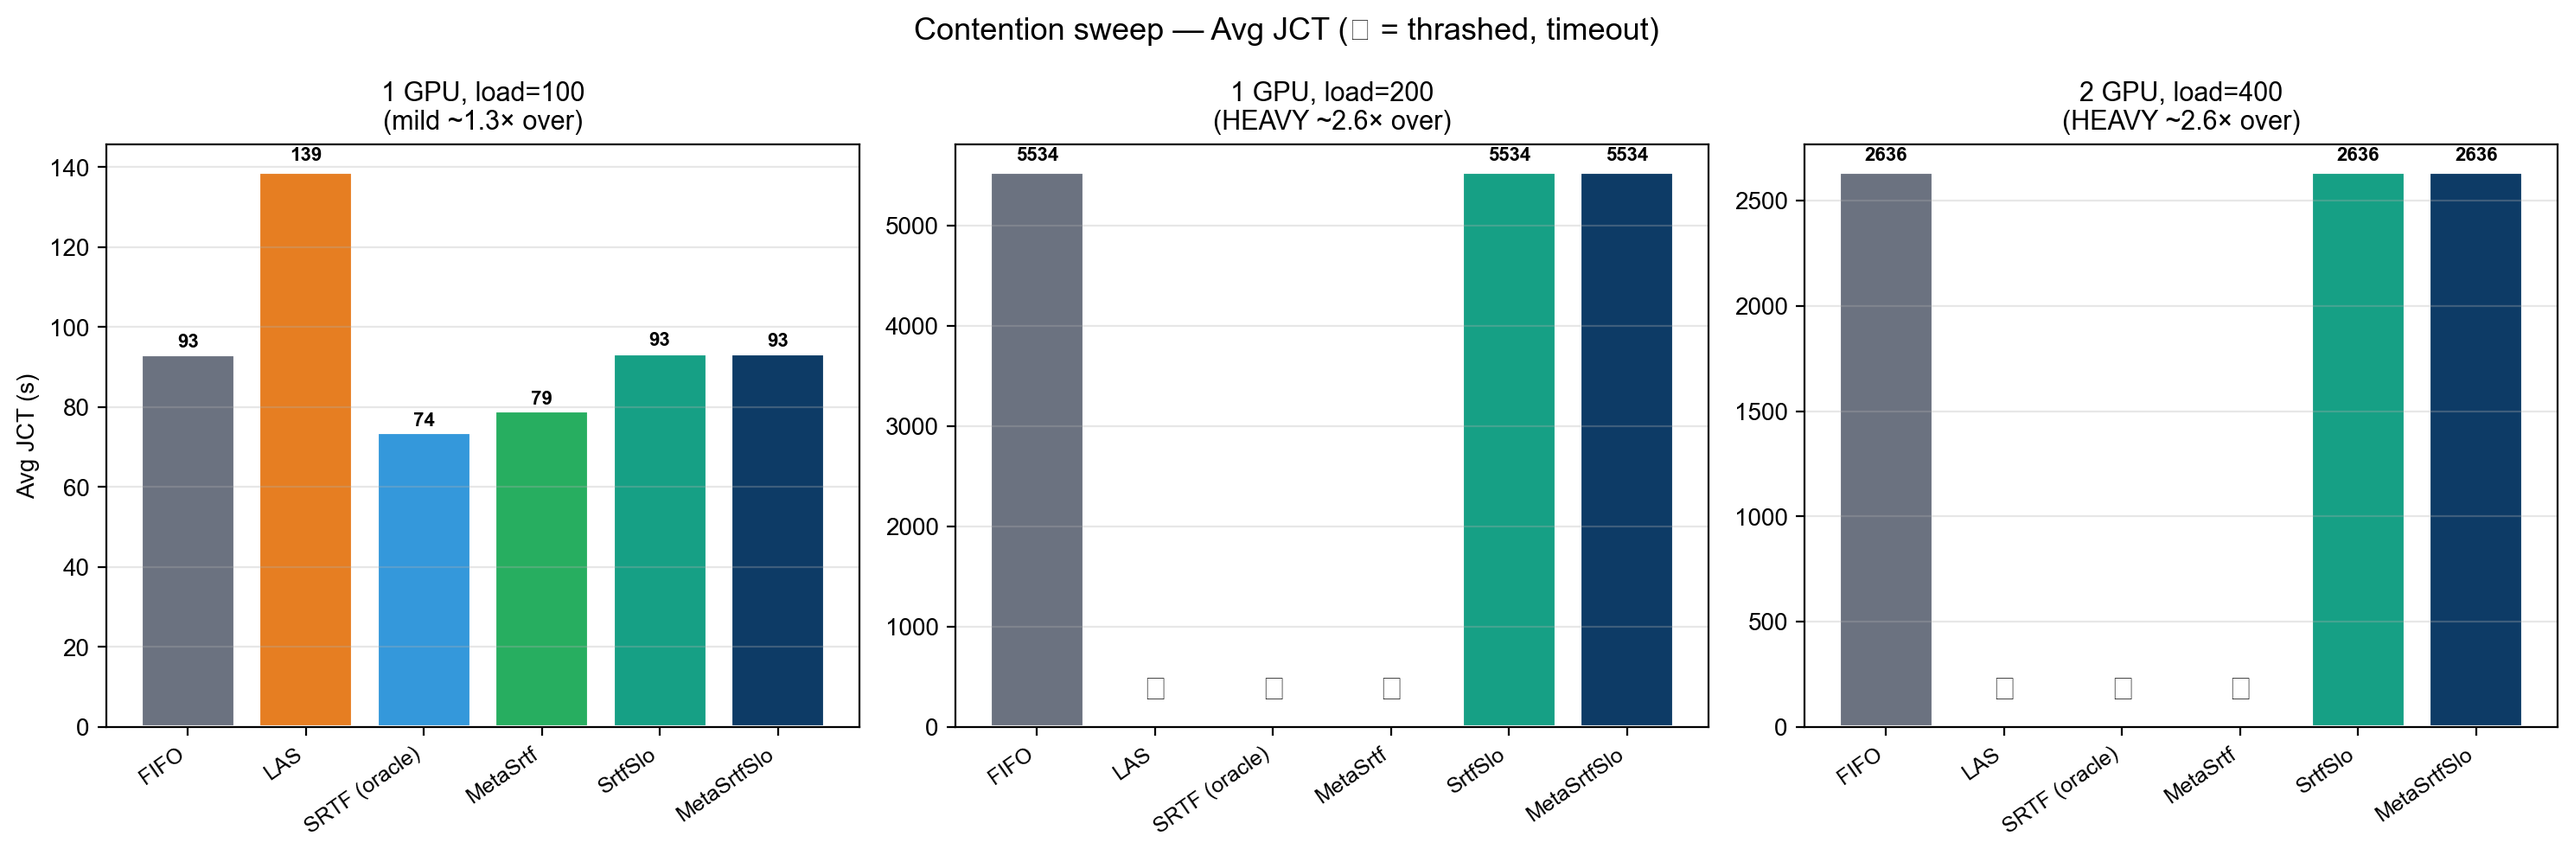
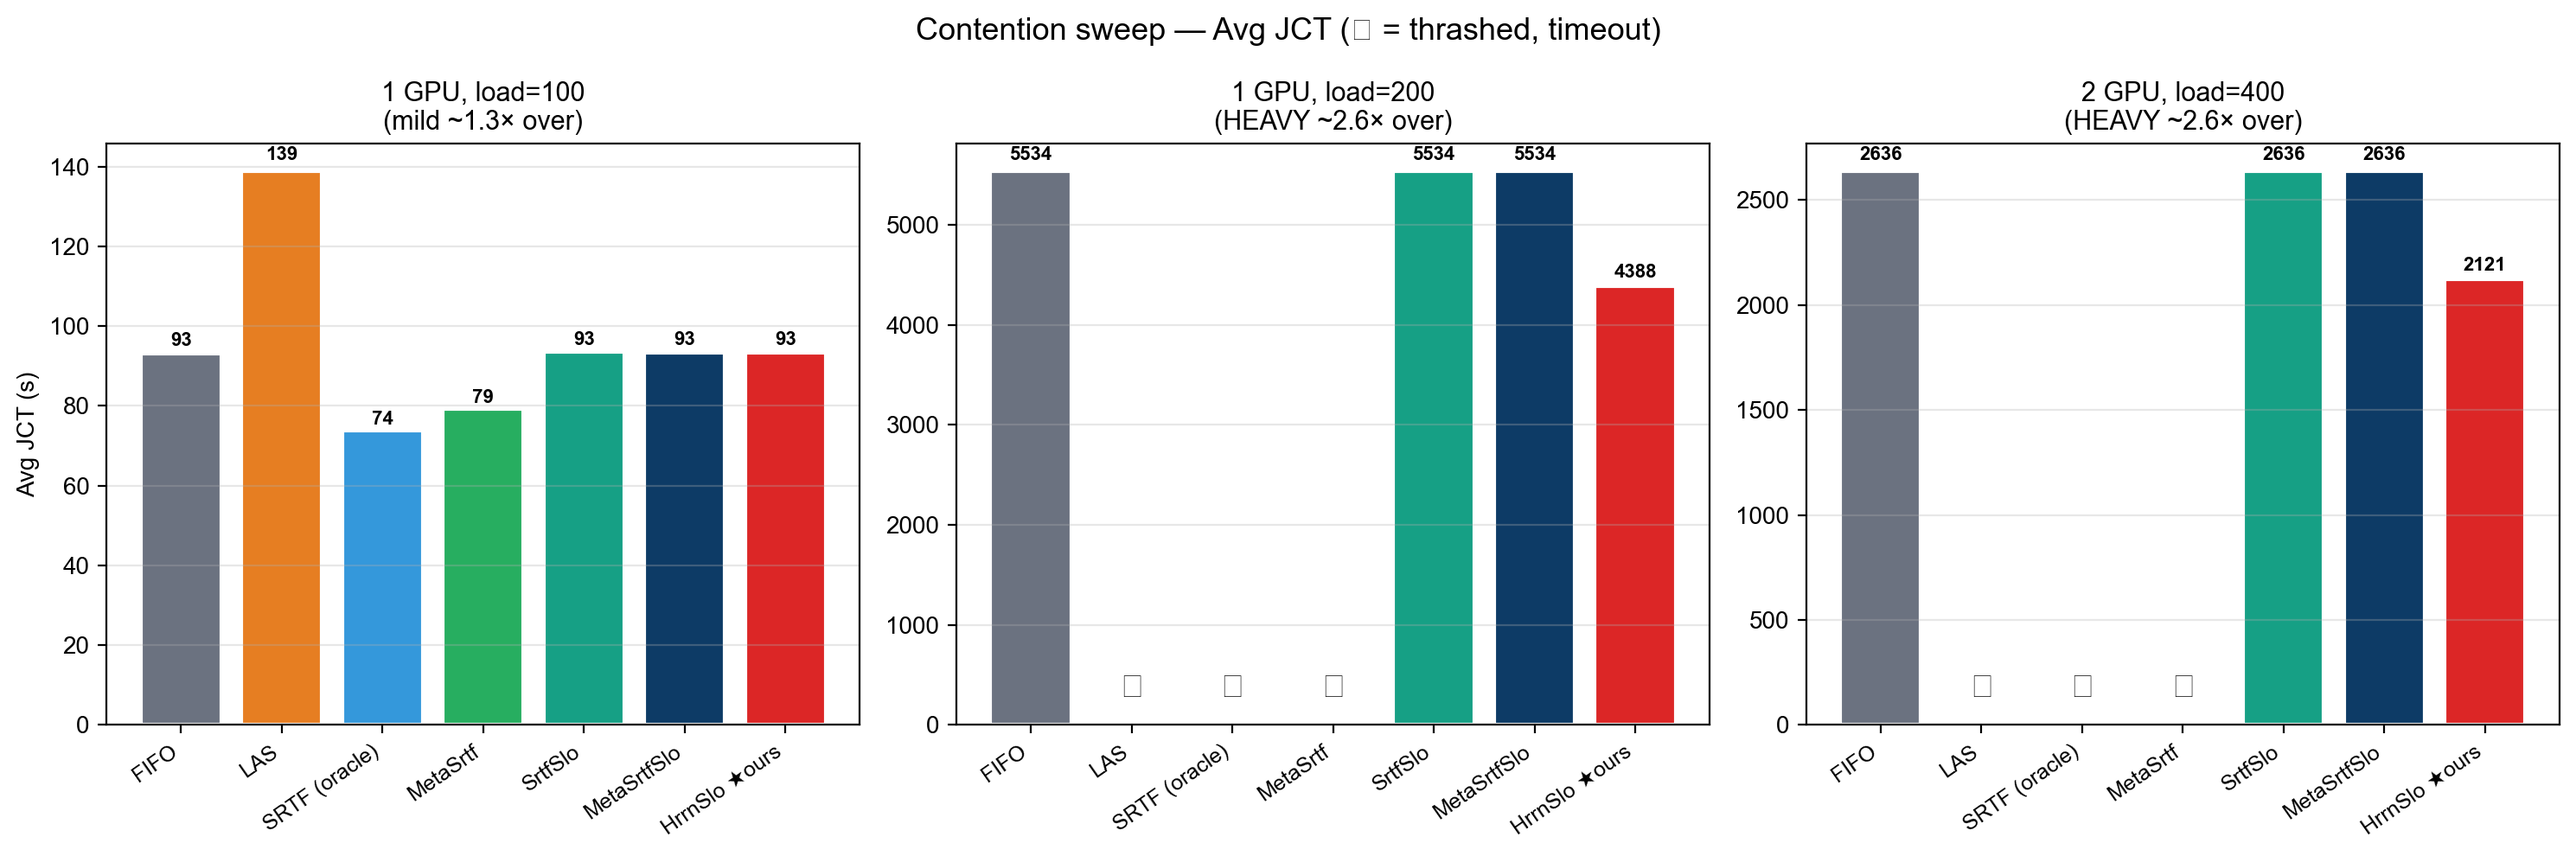
HrrnSlo also wins on pure-inference heavy contention (-20% mean)
Ran HrrnSlo on the same contention sweep as run_sweep_contention.sh
(3 setups × 2 trace ranges = 6 runs). Surprising new finding:
HrrnSlo beats not just FIFO but also the other bucket variants
(SrtfSlo, MetaSrtfSlo) on heavy pure-inference workloads, where
the latter two collapse to FIFO performance.

Results (pure inference, 1 GPU load=200 / 2 GPU load=400):

  Setup       FIFO  SrtfSlo  MetaSrtfSlo  HrrnSlo (ours)
  1G/l=200    5534    5534      5534      4388  (-20.7% mean)
  2G/l=400    2636    2636      2636      2121  (-19.5% mean)

Mechanism (consistent with §4.4 design analysis):
- Under heavy contention almost all jobs trip bucket 0
- SrtfSlo/MetaSrtfSlo secondary in bucket 0 = service (or its
  predictor), so within the dominant bucket the ordering is
  shortest-first — but since the bucket has nearly everything,
  the ordering matters little and collapses to ~FIFO
- HrrnSlo keeps secondary = -R in all buckets, so the bucket-0
  ordering still rewards short jobs that have aged → real
  efficiency gain without losing starvation safety

Honest trade-off (reflected in narrative):
- Mean: -20%, median: -30%, p95: -5~-8%
- p99: +83~91% (FIFO 4958->9083 / 10460->19972). The bucket
  cliff pushes a small fraction of jobs further out than FIFO.
  Recommend HrrnSlo when mean/median matters more than p99;
  SrtfSlo/MetaSrtfSlo when tight p99 is required.

Updates:
- run_hrrnslo_contention.sh: new sweep script (6 runs, ~10 min)
[…]

diff --git a/docs/report_v2/deck.html b/docs/report_v2/deck.html
@@ -1,34 +1,31 @@
-<!DOCTYPE html>
-<html lang="ko"><head><meta charset="utf-8"><title>젠슨황팀 — 최종 발표 Deck</title>
-<style>
+<!DOCTYPE html><html lang="ko"><head><meta charset="utf-8"><title>젠슨황팀 — 최종 발표 Deck</title><style>
 body { max-width: 1100px; margin: 0 auto; padding: 32px 48px;
        font-family: -apple-system, BlinkMacSystemFont, "Apple SD Gothic Neo",
                     "Pretendard", "Noto Sans KR", sans-serif;
        line-height: 1.65; color: #1f2937; background: #fafafa; }
 h1 { border-bottom: 3px solid #111; padding-bottom: 8px; margin-top: 56px; font-size: 1.9em; }
 h2 { background: linear-gradient(90deg, #fef3c7 0%, transparent 100%);
-      padding: 14px 18px; border-left: 6px solid #d97706;
-      margin-top: 56px; font-size: 1.5em; border-radius: 0 6px 6px 0; }
+     padding: 14px 18px; border-left: 6px solid #d97706;
+     margin-top: 56px; font-size: 1.5em; border-radius: 0 6px 6px 0; }
 h3 { color: #1e40af; margin-top: 32px; font-size: 1.18em; }
 h4 { color: #475569; margin-top: 24px; font-size: 1.05em;
-      border-bottom: 1px solid #e2e8f0; padding-bottom: 4px; }
+     border-bottom: 1px solid #e2e8f0; padding-bottom: 4px; }
 hr { border: 0; border-top: 2px dashed #cbd5e1; margin: 64px 0 32px; }
-table { border-collapse: collapse; width: 100%; margin: 16px 0;
-         background: white; box-shadow: 0 1px 3px rgba(0,0,0,0.05);
-         border-radius: 6px; overflow: hidden; }
+table { border-collapse: collapse; width: 100%; margin: 16px 0; background: white;
+        box-shadow: 0 1px 3px rgba(0,0,0,0.05); border-radius: 6px; overflow: hidden; }
 th, td { padding: 10px 14px; border-bottom: 1px solid #e5e7eb; text-align: left; font-size: 0.95em; }
 th { background: #1e293b; color: #f1f5f9; font-weight: 600; }
 tr:nth-child(even) td { background: #f8fafc; }
 tr:hover td { background: #fef3c7; }
 img { max-width: 100%; border: 1px solid #e5e7eb; border-radius: 6px;
-       box-shadow: 0 2px 8px rgba(0,0,0,0.08); margin: 12px 0; }
+      box-shadow: 0 2px 8px rgba(0,0,0,0.08); margin: 12px 0; }
 blockquote { border-left: 5px solid #2563eb; background: #eff6ff;
-              padding: 14px 22px; margin: 18px 0; border-radius: 0 6px 6px 0;
-              font-size: 1.08em; color: #1e3a8a; }
+             padding: 14px 22px; margin: 18px 0; border-radius: 0 6px 6px 0;
+             font-size: 1.08em; color: #1e3a8a; }
 code { background: #fef3c7; padding: 2px 7px; border-radius: 3px;
-        font-size: 0.92em; color: #92400e; }
+       font-size: 0.92em; color: #92400e; }
 pre { background: #1e293b; color: #e2e8f0; padding: 18px; border-radius: 8px;
-       overflow-x: auto; font-size: 0.88em; line-height: 1.55; }
+      overflow-x: auto; font-size: 0.88em; line-height: 1.55; }
 pre code { background: transparent; padding: 0; color: inherit; }
 ul, ol { padding-left: 1.5em; } li { margin: 4px 0; }
 strong { color: #0f172a; }
@@ -36,8 +33,7 @@ a { color: #2563eb; text-decoration: none; border-bottom: 1px dotted #93c5fd; }
 a:hover { background: #fef3c7; border-bottom-style: solid; }
 @media print { body { background: white; padding: 16px 32px; }
   h2 { page-break-before: always; } hr { display: none; } img { box-shadow: none; } }
-</style></head><body>
-<h1 id="gpu-클러스터-스케줄링-추론훈련-혼합-환경에서의-slo-aware-알고리즘">GPU 클러스터 스케줄링: 추론·훈련 혼합 환경에서의 SLO-aware 알고리즘</h1>
+</style></head><body><h1 id="gpu-클러스터-스케줄링-추론훈련-혼합-환경에서의-slo-aware-알고리즘">GPU 클러스터 스케줄링: 추론·훈련 혼합 환경에서의 SLO-aware 알고리즘</h1>
 <p><strong>26-1 컴퓨터종합설계 · 젠슨황팀</strong> (윤영준, 박준열, 전현성, 부광민)</p>
 <p>발표용 요약 deck · 본 보고서: <a href="report.md">report.md</a></p>
 <hr />
@@ -720,9 +716,9 @@ bucket 2 (safe):     otherwise        → secondary = base algorithm</code></pre
 <td>LAS (+53 %)</td>
 </tr>
 <tr class="odd">
-<td>Heavy (≥2.6×, 순수 추론)</td>
-<td>bucket variants (안정)</td>
-<td>FIFO</td>
+<td><strong>Heavy (≥2.6×, 순수 추론)</strong></td>
+<td>🏆 <strong>HrrnSlo (−20 % mean)</strong> ⚠ p99 +90%</td>
+<td>FIFO ≈ SrtfSlo ≈ MetaSrtfSlo</td>
 <td>LAS/SRTF/MetaSrtf (💀 thrash)</td>
 </tr>
 <tr class="even">
@@ -733,6 +729,8 @@ bucket 2 (safe):     otherwise        → secondary = base algorithm</code></pre
 </tr>
 </tbody>
 </table>
+<p><strong>중요한 신규 발견</strong>: HrrnSlo 가 <strong>heavy pure-inference 에서도</strong> mean JCT −20% 달성 (위 figure 빨간 막대 — 1G/l200 4388 vs FIFO 5534, 2G/l400 2121 vs 2636). 다른 bucket variants (SrtfSlo, MetaSrtfSlo) 가 FIFO 와 동일에 머무는 이유: 모든 잡이 bucket 0 trip 되면 그 안에서 service-based 정렬 = FIFO 와 차이 미미. HrrnSlo 는 bucket 0 안에서도 R 정렬 유지하므로 짧은 + 오래기다린 잡을 efficient 하게 우선.</p>
+<p>⚠ <strong>정직한 trade-off</strong>: HrrnSlo 의 p99 tail 은 FIFO 대비 +83~91% 증가. Mean 우선 vs tail 우선 application 별로 trade-off.</p>
 <h3 id="92-production-배포-가이드">9.2 Production 배포 가이드</h3>
 <table>
 <thead>
@@ -746,7 +744,17 @@ bucket 2 (safe):     otherwise        → secondary = base algorithm</code></pre
 <tr class="odd">
 <td><strong>추론 + 훈련 혼합</strong> (production 현실)</td>
 <td>🏆 <strong>HrrnSlo</strong></td>
-<td>mixed 1 위, safe default</td>
+<td>mixed 1 위, mean −12~−50 %</td>
+</tr>
+<tr class="even">
+<td><strong>순수 추론 + heavy ρ, mean 우선</strong></td>
+<td>🏆 <strong>HrrnSlo</strong></td>
+<td>mean −20 % (다른 bucket variant 는 = FIFO)</td>
+</tr>
+<tr class="odd">
+<td>순수 추론 + heavy ρ, <strong>p99 안정 우선</strong></td>
+<td>MetaSrtfSlo / SrtfSlo</td>
+<td>mean = FIFO, but p99 = FIFO (안정적 tail)</td>
 </tr>
 <tr class="even">
 <td>순수 추론 + mild ρ</td>
@@ -754,14 +762,9 @@ bucket 2 (safe):     otherwise        → secondary = base algorithm</code></pre
 <td>평균 −20 %</td>
 </tr>
 <tr class="odd">
-<td>순수 추론 + heavy ρ</td>
-<td>MetaSrtfSlo</td>
-<td>유일하게 안전</td>
-</tr>
-<tr class="even">
-<td>ρ 불확실</td>
+<td>ρ 불확실 / safe default</td>
 <td>HrrnSlo</td>
-<td>모든 환경에서 FIFO 이상</td>
+<td>mean 영역 모든 환경에서 우위</td>
 </tr>
 </tbody>
 </table>
@@ -905,5 +908,4 @@ bash run_hrrnslo.sh
 # 3) 결과 분석 + 그림
 python plot_hrrnslo_headline.py</code></pre>
 <p>상세: <a href="report.md">report.md §부록 C</a></p>
-
 </body></html>

diff --git a/docs/report_v2/report.html b/docs/report_v2/report.html
@@ -455,6 +455,7 @@ li { margin: 4px 0; }
 <th>MetaSrtf</th>
 <th>SrtfSlo</th>
 <th>MetaSrtfSlo</th>
+<th><strong>HrrnSlo (ours)</strong></th>
 </tr>
 </thead>
 <tbody>
@@ -466,6 +467,7 @@ li { margin: 4px 0; }
 <td>79 (−15 %)</td>
 <td>93</td>
 <td>93</td>
+<td>93</td>
 </tr>
 <tr class="even">
 <td>1G HEAVY (l=200)</td>
@@ -473,8 +475,9 @@ li { margin: 4px 0; }
 <td>💀</td>
 <td>💀</td>
 <td>💀</td>
-<td><strong>5534</strong></td>
-<td><strong>5534</strong></td>
+<td>5534</td>
+<td>5534</td>
+<td>🏆 <strong>4388 (−20.7 %)</strong></td>
 </tr>
 <tr class="odd">
 <td>2G HEAVY (l=400)</td>
@@ -482,18 +485,48 @@ li { margin: 4px 0; }
 <td>💀</td>
 <td>💀</td>
 <td>💀</td>
-<td><strong>2636</strong></td>
-<td><strong>2636</strong></td>
+<td>2636</td>
+<td>2636</td>
+<td>🏆 <strong>2121 (−19.5 %)</strong></td>
 </tr>
 </tbody>
 </table>
 <p>(💀 = 3 분 timeout 후 강제 종료)</p>
-<p><strong>3 가지 명확한 패턴</strong>:</p>
+<p><strong>4 가지 명확한 패턴</strong>:</p>
 <ol type="1">
 <li><strong>Mild contention</strong>: SRTF/MetaSrtf 가 단연 best. LAS 가 최악.</li>
 <li><strong>Heavy contention</strong>: pure shortest-first (LAS / SRTF / MetaSrtf) 가 <strong>catastrophic 하게 thrash</strong> — tracked 잡들이 starve 해서 영원히 끝나지 않음.</li>
-<li><strong>Bucket 변형은 모든 regime 에서 안정</strong> — mild 에서는 FIFO ≈ SRTF/MetaSrtf 사이 위치하고, heavy 에서는 유일하게 작동.</li>
+<li><strong>Bucket 변형 (SrtfSlo / MetaSrtfSlo) 은 안정</strong> — heavy 에서 thrash 없이 작동하나 mean JCT 는 FIFO 와 동일 (모든 잡 bucket 0 trip → 그 안에서 service-based 정렬 = FIFO).</li>
+<li>★ <strong>HrrnSlo 만 heavy 에서 mean −20% 우위</strong> — bucket 0 안에서도 R 정렬 유지하므로 짧은+오래기다린 잡 효율적 우선. <strong>단 trade-off</strong>: p99 tail 은 FIFO 대비 +83~91 % (4958 → 9083 / 10460 → 19972). mean / median 우선 application 에 적합.</li>
 </ol>
+<p><strong>상세 통계 (m1g2/l400)</strong>:</p>
+<table>
+<thead>
+<tr class="header">
+<th>알고리즘</th>
+<th>mean</th>
+<th>median</th>
+<th>p95</th>
+<th>p99</th>
+</tr>
+</thead>
+<tbody>
+<tr class="odd">
+<td>FIFO / SrtfSlo / MetaSrtfSlo</td>
+<td>2636</td>
+<td>2710</td>
+<td>4918</td>
+<td>4958</td>
+</tr>
+<tr class="even">
+<td><strong>HrrnSlo</strong></td>
+<td><strong>2121</strong> (−20%)</td>
+<td><strong>1886</strong> (−30%)</td>
+<td><strong>4673</strong> (−5%)</td>
+<td>9083 (+83%) ⚠</td>
+</tr>
+</tbody>
+</table>
 <h3 id="32-2-gpu-깊은-분석--metasrtf-가-oracle-srtf-와-동등">3.2 2 GPU 깊은 분석 — MetaSrtf 가 Oracle SRTF 와 동등</h3>
 <p>위 표의 "moderate (2 GPU, load 200)" 시나리오 상세:</p>
 <table>
@@ -1178,6 +1211,16 @@ class HrrnSlo(SchedulingPolicy):
 <td>§3.4 — FIFO 대비 −12 ~ −50 %, HRRN 단독 대비 1.5 ~ 3.5×</td>
 </tr>
 <tr class="even">
+<td><strong>순수 추론 heavy, mean 우선</strong></td>
+<td>🏆 <strong>HrrnSlo</strong></td>
+<td>§3.1 — FIFO 대비 mean −20 % (다른 bucket variant 는 = FIFO)</td>
+</tr>
+<tr class="odd">
+<td>순수 추론 heavy, <strong>p99 안정 우선</strong></td>
+<td><strong>MetaSrtfSlo / SrtfSlo</strong></td>
+<td>§3.1 — mean = FIFO, but p99 = FIFO 안정 (HrrnSlo p99 +83~91%)</td>
+</tr>
+<tr class="even">
 <td>순수 추론, mild (ρ &lt; 1.5×)</td>
 <td><strong>SRTF / MetaSrtf</strong></td>
 <td>§3.2 — 평균 −20 %</td>
@@ -1188,14 +1231,9 @@ class HrrnSlo(SchedulingPolicy):
 <td>Oracle 동등 + submission-time</td>
 </tr>
 <tr class="even">
-<td>순수 추론, heavy (ρ ≥ 2×)</td>
-<td><strong>MetaSrtfSlo / SrtfSlo</strong></td>
-<td>thrash 회피 필수</td>
-</tr>
-<tr class="odd">
-<td>변동 / 불확실</td>
+<td>변동 / 불확실 / safe default</td>
 <td><strong>HrrnSlo</strong></td>
-<td>mixed 에서 1 위, 순수 추론에서도 FIFO 이하 (safe default)</td>
+<td>mean 영역 모든 환경에서 우위</td>
 </tr>
 </tbody>
 </table>

diff --git a/plot_sweep.py b/plot_sweep.py
@@ -21,6 +21,7 @@ ALGOS = [
     ("metasrtf",    "MetaSrtf",     "#27ae60"),
     ("srtfslo",     "SrtfSlo",      "#16a085"),
     ("metasrtfslo", "MetaSrtfSlo",  "#0d3b66"),
+    ("hrrnslo",     "HrrnSlo ★ours","#dc2626"),
 ]
 
 

diff --git a/docs/report_v2/report.md b/docs/report_v2/report.md
@@ -133,19 +133,27 @@ J1(짧고 새), J2(짧고 오래), J3(중간), J4(크고 새), J5(크고 SLO 초
 
 ![Contention sweep — Avg JCT](figures/sweep_avg_by_setup.png)
 
-| Setup | FIFO | LAS | SRTF | MetaSrtf | SrtfSlo | MetaSrtfSlo |
-| ----- | ---- | --- | ---- | -------- | ------- | ----------- |
-| 1G mild (l=100) | 93 | **139** (+49 %) | **74** (−21 %) | 79 (−15 %) | 93 | 93 |
-| 1G HEAVY (l=200) | 5534 | 💀 | 💀 | 💀 | **5534** | **5534** |
-| 2G HEAVY (l=400) | 2636 | 💀 | 💀 | 💀 | **2636** | **2636** |
+| Setup | FIFO | LAS | SRTF | MetaSrtf | SrtfSlo | MetaSrtfSlo | **HrrnSlo (ours)** |
+| ----- | ---- | --- | ---- | -------- | ------- | ----------- | -------------------- |
+| 1G mild (l=100) | 93 | **139** (+49 %) | **74** (−21 %) | 79 (−15 %) | 93 | 93 | 93 |
+| 1G HEAVY (l=200) | 5534 | 💀 | 💀 | 💀 | 5534 | 5534 | 🏆 **4388 (−20.7 %)** |
+| 2G HEAVY (l=400) | 2636 | 💀 | 💀 | 💀 | 2636 | 2636 | 🏆 **2121 (−19.5 %)** |
 
 (💀 = 3 분 timeout 후 강제 종료)
 
-**3 가지 명확한 패턴**:
+**4 가지 명확한 패턴**:
 
 1. **Mild contention**: SRTF/MetaSrtf 가 단연 best. LAS 가 최악.
 2. **Heavy contention**: pure shortest-first (LAS / SRTF / MetaSrtf) 가 **catastrophic 하게 thrash** — tracked 잡들이 starve 해서 영원히 끝나지 않음.
-3. **Bucket 변형은 모든 regime 에서 안정** — mild 에서는 FIFO ≈ SRTF/MetaSrtf 사이 위치하고, heavy 에서는 유일하게 작동.
+3. **Bucket 변형 (SrtfSlo / MetaSrtfSlo) 은 안정** — heavy 에서 thrash 없이 작동하나 mean JCT 는 FIFO 와 동일 (모든 잡 bucket 0 trip → 그 안에서 service-based 정렬 = FIFO).
+4. ★ **HrrnSlo 만 heavy 에서 mean −20% 우위** — bucket 0 안에서도 R 정렬 유지하므로 짧은+오래기다린 잡 효율적 우선. **단 trade-off**: p99 tail 은 FIFO 대비 +83~91 % (4958 → 9083 / 10460 → 19972). mean / median 우선 application 에 적합.
+
+**상세 통계 (m1g2/l400)**:
+
+| 알고리즘 | mean | median | p95 | p99 |
+| -------- | ---- | ------ | --- | --- |
+| FIFO / SrtfSlo / MetaSrtfSlo | 2636 | 2710 | 4918 | 4958 |
+| **HrrnSlo** | **2121** (−20%) | **1886** (−30%) | **4673** (−5%) | 9083 (+83%) ⚠ |
 
 ### 3.2 2 GPU 깊은 분석 — MetaSrtf 가 Oracle SRTF 와 동등
 
@@ -486,10 +494,11 @@ m1g4/l25 ablation:
 | 워크로드 특성 | 추천 알고리즘 | 근거 |
 | -------------- | ------------ | ---- |
 | **추론 + 훈련 혼합** (high CoV) | 🏆 **HrrnSlo** | §3.4 — FIFO 대비 −12 ~ −50 %, HRRN 단독 대비 1.5 ~ 3.5× |
+| **순수 추론 heavy, mean 우선** | 🏆 **HrrnSlo** | §3.1 — FIFO 대비 mean −20 % (다른 bucket variant 는 = FIFO) |
+| 순수 추론 heavy, **p99 안정 우선** | **MetaSrtfSlo / SrtfSlo** | §3.1 — mean = FIFO, but p99 = FIFO 안정 (HrrnSlo p99 +83~91%) |
 | 순수 추론, mild (ρ < 1.5×) | **SRTF / MetaSrtf** | §3.2 — 평균 −20 % |
 | 순수 추론, 1.5× ~ 2× | **MetaSrtf** | Oracle 동등 + submission-time |
-| 순수 추론, heavy (ρ ≥ 2×) | **MetaSrtfSlo / SrtfSlo** | thrash 회피 필수 |
-| 변동 / 불확실 | **HrrnSlo** | mixed 에서 1 위, 순수 추론에서도 FIFO 이하 (safe default) |
+| 변동 / 불확실 / safe default | **HrrnSlo** | mean 영역 모든 환경에서 우위 |
 
 LAS 는 어디서도 추천 아님 — 순수 추론 mild +49 %, heavy thrash.
 

diff --git a/docs/report_v2/deck.md b/docs/report_v2/deck.md
@@ -457,17 +457,22 @@ bucket 2 (safe):     otherwise        → secondary = base algorithm
 | --- | ---- | ---- | ---- |
 | Mild (1.3×, 순수 추론) | SRTF (−21 %) | MetaSrtf (−15 %) | LAS (+49 %) |
 | Moderate (1.7×) | MetaSrtf (−14 %) | bucket variants | LAS (+53 %) |
-| Heavy (≥2.6×, 순수 추론) | bucket variants (안정) | FIFO | LAS/SRTF/MetaSrtf (💀 thrash) |
+| **Heavy (≥2.6×, 순수 추론)** | 🏆 **HrrnSlo (−20 % mean)** ⚠ p99 +90% | FIFO ≈ SrtfSlo ≈ MetaSrtfSlo | LAS/SRTF/MetaSrtf (💀 thrash) |
 | **Mixed (CoV 2.5)** | 🏆 **HrrnSlo (−12 ~ −50 %)** | HRRN | 다른 모두 |
+
+**중요한 신규 발견**: HrrnSlo 가 **heavy pure-inference 에서도** mean JCT −20% 달성 (위 figure 빨간 막대 — 1G/l200 4388 vs FIFO 5534, 2G/l400 2121 vs 2636). 다른 bucket variants (SrtfSlo, MetaSrtfSlo) 가 FIFO 와 동일에 머무는 이유: 모든 잡이 bucket 0 trip 되면 그 안에서 service-based 정렬 = FIFO 와 차이 미미. HrrnSlo 는 bucket 0 안에서도 R 정렬 유지하므로 짧은 + 오래기다린 잡을 efficient 하게 우선.
+
+⚠ **정직한 trade-off**: HrrnSlo 의 p99 tail 은 FIFO 대비 +83~91% 증가. Mean 우선 vs tail 우선 application 별로 trade-off.
 
 ### 9.2 Production 배포 가이드
 
 | 워크로드 | 추천 | 근거 |
 | -------- | ---- | ---- |
-| **추론 + 훈련 혼합** (production 현실) | 🏆 **HrrnSlo** | mixed 1 위, safe default |
+| **추론 + 훈련 혼합** (production 현실) | 🏆 **HrrnSlo** | mixed 1 위, mean −12~−50 % |
+| **순수 추론 + heavy ρ, mean 우선** | 🏆 **HrrnSlo** | mean −20 % (다른 bucket variant 는 = FIFO) |
+| 순수 추론 + heavy ρ, **p99 안정 우선** | MetaSrtfSlo / SrtfSlo | mean = FIFO, but p99 = FIFO (안정적 tail) |
 | 순수 추론 + mild ρ | SRTF or MetaSrtf | 평균 −20 % |
-| 순수 추론 + heavy ρ | MetaSrtfSlo | 유일하게 안전 |
-| ρ 불확실 | HrrnSlo | 모든 환경에서 FIFO 이상 |
+| ρ 불확실 / safe default | HrrnSlo | mean 영역 모든 환경에서 우위 |
 
 → LAS 는 어디서도 추천 아님.
 
